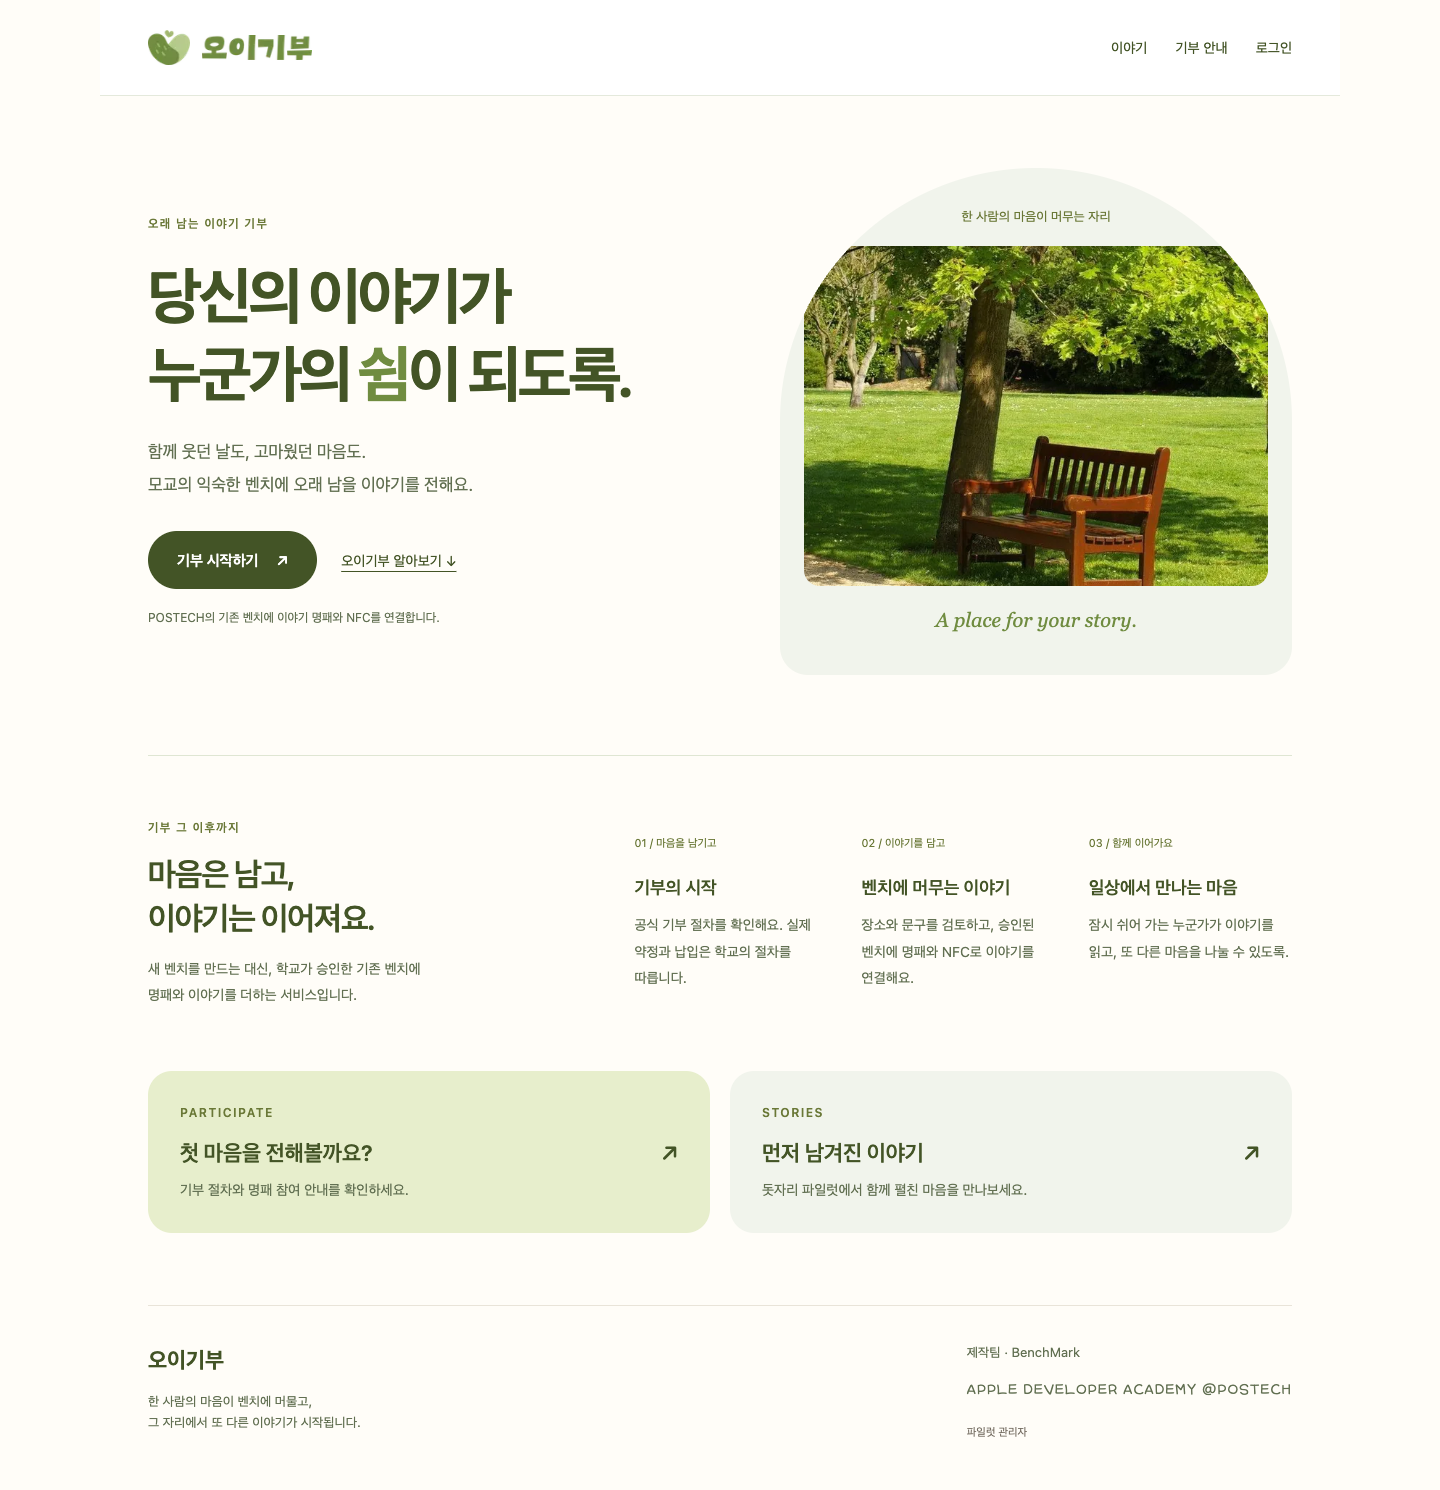
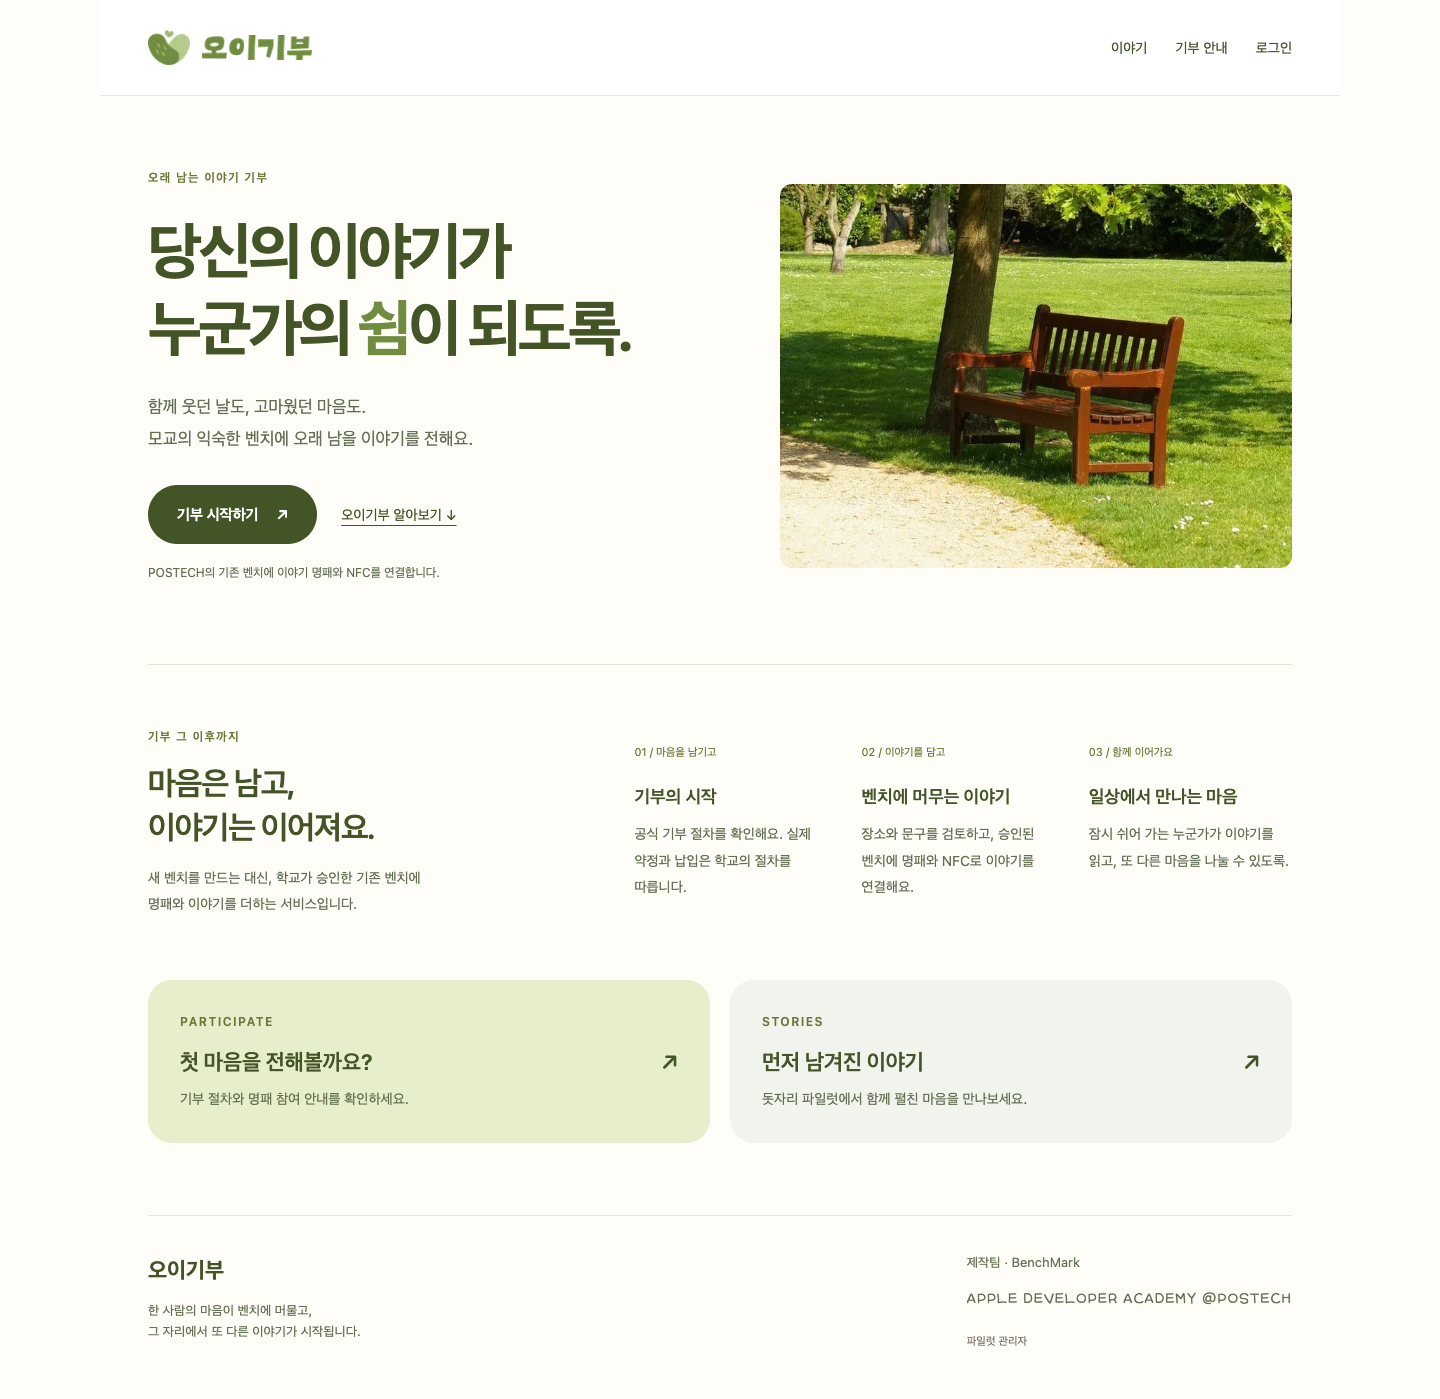
[fix] 홈 사진의 아치 장식과 영어 문구 제거

diff --git a/apps/web/src/app/globals.css b/apps/web/src/app/globals.css
@@ -152,10 +152,8 @@ label{display:block;font-size:14px;font-weight:600}input,textarea,select{display
 .oi-actions{display:flex;gap:24px;align-items:center;flex-wrap:wrap;margin:30px 0 18px}
 .oi-inline-link{display:inline-flex;align-items:center;min-height:44px;font-size:14px;text-decoration:underline;text-underline-offset:5px}
 .oi-caption{display:block;font-size:12px;color:#627052;line-height:1.8;word-break:keep-all}
-.oi-hero-art{position:relative;border-radius:50% 50% 28px 28px;background:#f1f4ec;min-height:420px;display:flex;flex-direction:column;align-items:center;justify-content:center;padding:38px 24px;overflow:hidden}
-.oi-hero-art img{width:100%;height:340px;object-fit:cover;object-position:center 75%;margin:18px 0;border-radius:16px}
-.oi-art-label{font-size:13px;color:#6a7837}
-.oi-art-foot{font-family:Georgia,serif;font-size:20px;font-style:italic;color:#708c40}
+.oi-hero-art{min-width:0}
+.oi-hero-art img{width:100%;height:auto;aspect-ratio:4/3;object-fit:cover;object-position:center bottom;border-radius:12px}
 .oi-intro{border-top:1px solid #dfe6d3;padding:62px 0;display:grid;grid-template-columns:1fr 1.5fr;gap:48px;scroll-margin-top:24px}
 .oi-intro h2{font-size:32px;letter-spacing:-.03em;margin:16px 0}
 .oi-intro p{font-size:14px;line-height:1.9;color:#627052;word-break:keep-all}
@@ -195,6 +193,6 @@ label{display:block;font-size:14px;font-weight:600}input,textarea,select{display
 .oi-donate-card .button{width:100%}
 .oi-donate-card .oi-caption{font-size:12px}
 .oi-account-note{padding-top:24px;border-top:1px solid #dfe6d3;font-size:13px;color:#627052}
-@media(max-width:900px){.oi-shell{padding-left:28px;padding-right:28px}.oi-header{padding:20px 28px}.oi-hero{gap:28px;padding:52px 0}.oi-hero-art{min-height:340px}.oi-intro{grid-template-columns:1fr;gap:26px}.oi-donate-grid{gap:32px}.oi-donate-card{padding:28px}.oi-footer{margin:0 28px}}
-@media(max-width:600px){.oi-header{padding:16px 20px;gap:10px;flex-wrap:wrap}.oi-brand{gap:8px}.oi-brand img:first-child{width:30px;height:auto}.oi-brand img:last-child{width:92px;height:auto}.oi-header nav{gap:16px;font-size:13px}.oi-account-button{font-size:13px}.oi-shell{padding-left:22px;padding-right:22px}.oi-hero{grid-template-columns:1fr;gap:30px;padding:40px 0}.oi-hero h1{font-size:38px}.oi-hero-copy>p{font-size:15px}.oi-hero-art{min-height:0;padding:26px}.oi-hero-art img{max-width:320px;height:300px}.oi-actions{gap:16px}.oi-intro{padding:38px 0}.oi-intro h2{font-size:28px}.oi-steps{grid-template-columns:1fr;gap:24px}.oi-steps li{padding-top:18px;border-top:1px solid #dfe6d3}.oi-steps h3{margin:12px 0 8px}.oi-link-grid{grid-template-columns:1fr;margin-bottom:44px}.oi-link-grid>a{padding:26px}.oi-link-grid h2{font-size:21px}.oi-footer{margin:0 22px;display:block;padding:30px 0}.oi-footer>div+div{margin-top:24px}.oi-donate-grid{grid-template-columns:1fr;gap:28px}.oi-donate-heading{padding:20px 0 32px}.oi-auth{padding-top:48px;padding-bottom:60px}.oi-desktop-break{display:none}}
+@media(max-width:900px){.oi-shell{padding-left:28px;padding-right:28px}.oi-header{padding:20px 28px}.oi-hero{gap:28px;padding:52px 0}.oi-intro{grid-template-columns:1fr;gap:26px}.oi-donate-grid{gap:32px}.oi-donate-card{padding:28px}.oi-footer{margin:0 28px}}
+@media(max-width:600px){.oi-header{padding:16px 20px;gap:10px;flex-wrap:wrap}.oi-brand{gap:8px}.oi-brand img:first-child{width:30px;height:auto}.oi-brand img:last-child{width:92px;height:auto}.oi-header nav{gap:16px;font-size:13px}.oi-account-button{font-size:13px}.oi-shell{padding-left:22px;padding-right:22px}.oi-hero{grid-template-columns:1fr;gap:30px;padding:40px 0}.oi-hero h1{font-size:38px}.oi-hero-copy>p{font-size:15px}.oi-actions{gap:16px}.oi-intro{padding:38px 0}.oi-intro h2{font-size:28px}.oi-steps{grid-template-columns:1fr;gap:24px}.oi-steps li{padding-top:18px;border-top:1px solid #dfe6d3}.oi-steps h3{margin:12px 0 8px}.oi-link-grid{grid-template-columns:1fr;margin-bottom:44px}.oi-link-grid>a{padding:26px}.oi-link-grid h2{font-size:21px}.oi-footer{margin:0 22px;display:block;padding:30px 0}.oi-footer>div+div{margin-top:24px}.oi-donate-grid{grid-template-columns:1fr;gap:28px}.oi-donate-heading{padding:20px 0 32px}.oi-auth{padding-top:48px;padding-bottom:60px}.oi-desktop-break{display:none}}
 @media(prefers-reduced-motion:reduce){html{scroll-behavior:auto}.oi-link-grid>a{transition:none}}

diff --git a/apps/web/src/app/page.tsx b/apps/web/src/app/page.tsx
@@ -2,7 +2,7 @@ import Image from "next/image";
 import Link from "next/link";
 export default function Home() {
   return <div className="oi-home oi-shell">
-    <section className="oi-hero" aria-labelledby="home-title"><div className="oi-hero-copy"><span className="oi-kicker">오래 남는 이야기 기부</span><h1 id="home-title">당신의 이야기가<br />누군가의 <em>쉼</em>이 되도록.</h1><p>함께 웃던 날도, 고마웠던 마음도.<br />모교의 익숙한 벤치에 오래 남을 이야기를 전해요.</p><div className="oi-actions"><Link href="/donate" className="button primary">기부 시작하기 <span aria-hidden="true">↗</span></Link><a href="#how-it-works" className="oi-inline-link">오이기부 알아보기 ↓</a></div><span className="oi-caption">POSTECH의 기존 벤치에 이야기 명패와 NFC를 연결합니다.</span></div><div className="oi-hero-art"><span className="oi-art-label">한 사람의 마음이 머무는 자리</span><Image src="/oi/bench.png" alt="나무 아래 놓인 벤치, 앱 디자인에 사용한 이미지" width={600} height={440} priority /><span className="oi-art-foot">A place for your story.</span></div></section>
+    <section className="oi-hero" aria-labelledby="home-title"><div className="oi-hero-copy"><span className="oi-kicker">오래 남는 이야기 기부</span><h1 id="home-title">당신의 이야기가<br />누군가의 <em>쉼</em>이 되도록.</h1><p>함께 웃던 날도, 고마웠던 마음도.<br />모교의 익숙한 벤치에 오래 남을 이야기를 전해요.</p><div className="oi-actions"><Link href="/donate" className="button primary">기부 시작하기 <span aria-hidden="true">↗</span></Link><a href="#how-it-works" className="oi-inline-link">오이기부 알아보기 ↓</a></div><span className="oi-caption">POSTECH의 기존 벤치에 이야기 명패와 NFC를 연결합니다.</span></div><div className="oi-hero-art"><Image src="/oi/bench.png" alt="나무 아래 놓인 벤치, 앱 디자인에 사용한 이미지" width={729} height={1096} priority /></div></section>
     <section className="oi-intro" id="how-it-works"><div><span className="oi-kicker">기부 그 이후까지</span><h2>마음은 남고,<br />이야기는 이어져요.</h2><p>새 벤치를 만드는 대신, 학교가 승인한 기존 벤치에<br className="oi-desktop-break" /> 명패와 이야기를 더하는 서비스입니다.</p></div><ol className="oi-steps"><li><span>01 / 마음을 남기고</span><h3>기부의 시작</h3><p>공식 기부 절차를 확인해요. 실제 약정과 납입은 학교의 절차를 따릅니다.</p></li><li><span>02 / 이야기를 담고</span><h3>벤치에 머무는 이야기</h3><p>장소와 문구를 검토하고, 승인된 벤치에 명패와 NFC로 이야기를 연결해요.</p></li><li><span>03 / 함께 이어가요</span><h3>일상에서 만나는 마음</h3><p>잠시 쉬어 가는 누군가가 이야기를 읽고, 또 다른 마음을 나눌 수 있도록.</p></li></ol></section>
     <section className="oi-link-grid" aria-label="서비스 바로가기"><Link href="/donate"><span className="oi-kicker">PARTICIPATE</span><h2>첫 마음을 전해볼까요? <span aria-hidden="true">↗</span></h2><p>기부 절차와 명패 참여 안내를 확인하세요.</p></Link><Link href="/stories"><span className="oi-kicker">STORIES</span><h2>먼저 남겨진 이야기 <span aria-hidden="true">↗</span></h2><p>돗자리 파일럿에서 함께 펼친 마음을 만나보세요.</p></Link></section>
   </div>;

diff --git a/docs/web-oi.md b/docs/web-oi.md
@@ -99,3 +99,7 @@ https://oi-web-preview-design-preview.up.railway.app/auth/callback?next=%2F
 - 동작 변경은 Supabase 설정만으로 해결했고 재배포는 수행하지 않았다. 최신 develop 통합 후 웹 lint·타입 검사·단위 테스트·빌드를 재확인했다.
 
 ![실제 Google 로그인 후 기부 안내 복귀](web-oi/google-donate-verified.jpg)
+
+### 홈 사진 정리 — 2026-10-12
+
+사용자 요청으로 아치 배경과 영어 문구를 제거했다. 사진 위의 중복 안내 문구도 정리하고, 배경 프레임 없이 4:3 비율로 표시한다. 사진을 늘리지 않으며 하단 구도로 벤치 전체를 보존한다. 모바일에서도 가로 공간을 채우도록 기존 320px 제한을 제거했다. 웹 lint·타입 검사·빌드 및 320/390/768/1440px 브라우저 검증을 통과했다.
